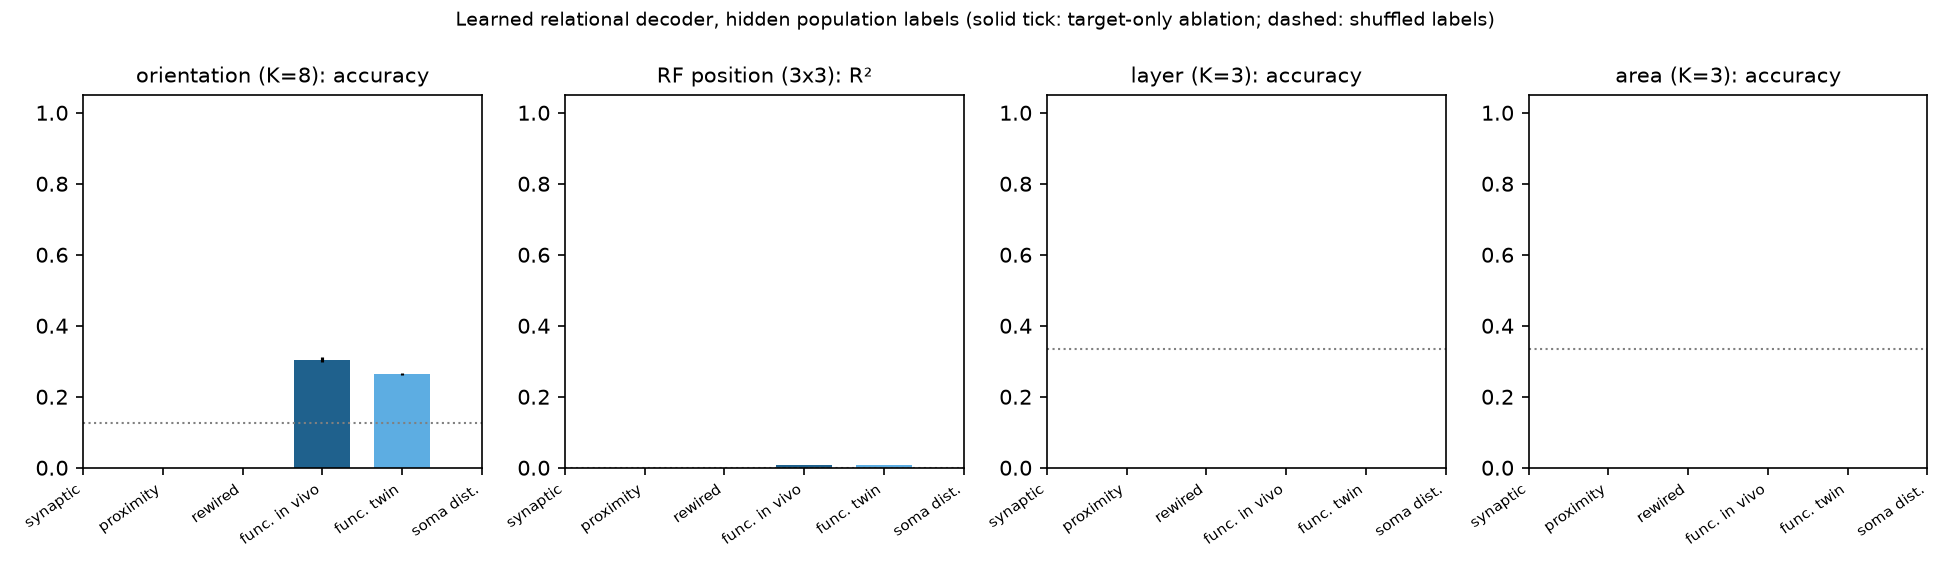
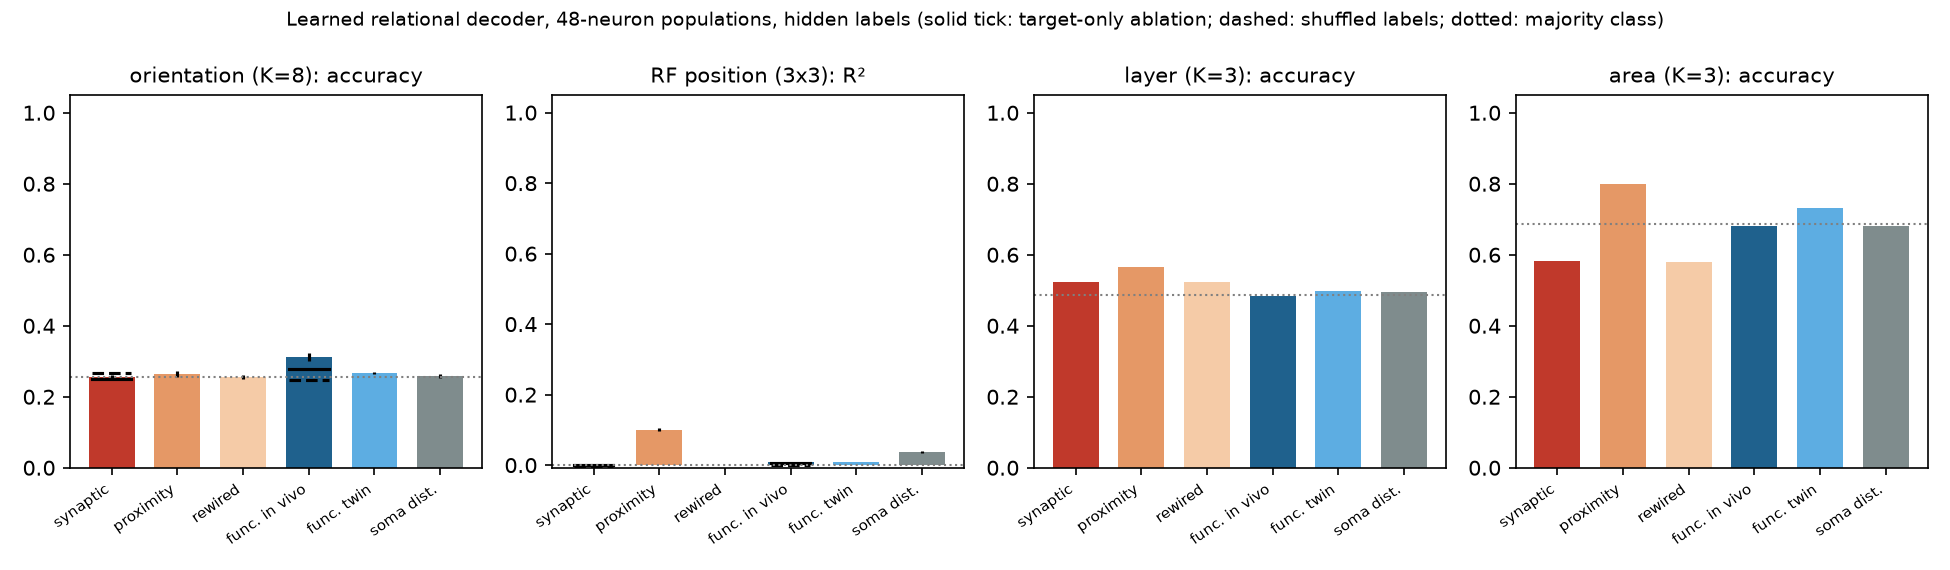
microns_ambiguity: decoder results, residual-RF control, final write-up
Learned decoder with hidden population labels stays at the class-prior
baseline at 48-128 neurons (honest negative); residual-RF control shows
synaptic relations carry RF content only at the map level while functional
relations identify local RF scatter perfectly. README completed.

Claude-Session: https://claude.ai/code/session_01LETEXXu2w15URiHQ6at3NF

diff --git a/microns_ambiguity/plots.py b/microns_ambiguity/plots.py
@@ -77,7 +77,8 @@ def fig_class_grams(geo, keys, fname):
 def fig_decoder(dec, fname):
     subs = ["struct_in", "struct_in_adp", "struct_in_rewired", "func_iv", "func_is", "soma"]
     fig, axes = plt.subplots(1, 4, figsize=(13, 3.8))
-    for ax, con, metric, chance in zip(axes, ["ori", "rf", "layer", "area"], ["acc", "r2", "acc", "acc"], [1 / 8, 0, 1 / 3, 1 / 3]):
+    # chance for accuracy = majority-class rate (classes are unbalanced)
+    for ax, con, metric, chance in zip(axes, ["ori", "rf", "layer", "area"], ["acc", "r2", "acc", "acc"], [0.255, 0, 0.487, 0.688]):
         for i, s in enumerate(subs):
             vals = [v[metric] for k, v in dec.items() if k.startswith(f"{s}|{con}|full|")]
             if not vals: continue
@@ -90,7 +91,7 @@ def fig_decoder(dec, fname):
         ax.set_xticks(range(len(subs))); ax.set_xticklabels([SUB_LABEL[s] for s in subs], fontsize=7, rotation=35, ha="right")
         ax.set_title(f"{CON_LABEL[con]}: {'accuracy' if metric == 'acc' else 'R²'}", fontsize=10)
         ax.set_ylim(min(0, ax.get_ylim()[0]), 1.05)
-    fig.suptitle("Learned relational decoder, hidden population labels (solid tick: target-only ablation; dashed: shuffled labels)", fontsize=9)
+    fig.suptitle("Learned relational decoder, 48-neuron populations, hidden labels (solid tick: target-only ablation; dashed: shuffled labels; dotted: majority class)", fontsize=9)
     fig.tight_layout(); fig.savefig(OUT / fname, dpi=150); plt.close(fig)
 
 

diff --git a/microns_ambiguity/README.md b/microns_ambiguity/README.md
@@ -232,7 +232,39 @@ relational structure, and it is broken by anisotropy, not by more relations.
 
 ### 4. Learned decoder with hidden population labels
 
-DECODER_PLACEHOLDER
+![decoder](outputs/decoder.png)
+
+| substrate | orientation acc (K=8) | RF R² | layer acc | area acc |
+|---|---|---|---|---|
+| synaptic | 0.26 | 0.00 | 0.52 | 0.58 |
+| proximity | 0.26 | **0.10** | 0.57 | **0.80** |
+| rewired | 0.26 | 0.00 | 0.52 | 0.58 |
+| functional, in vivo | **0.31** (0.33 at n=128; target-only 0.28) | 0.01 (0.01 at n=128) | 0.48 | 0.68 |
+| functional, digital twin | 0.26 (0.27 at n=128) | 0.01 | 0.50 | 0.73 |
+| soma distance | 0.26 | 0.04 | 0.50 | 0.68 |
+| majority class / shuffled labels | 0.25 / 0.25–0.27 | 0 / 0.00 | 0.49 | 0.69 |
+
+Mean over 2 seeds (orientation, RF) or 1 seed; 48-neuron populations, 24k
+training populations × 10 epochs; n=128 for the functional substrates
+(a 256-neuron sweep was killed by the OS for memory and is not reported).
+
+**This protocol fails in cortex.**  With population labels hidden and only 48
+(or 128) neurons per population, the decoder stays at the class-prior baseline
+for every substrate and content except a small orientation gain from in-vivo
+covariance (0.31–0.33 vs 0.25, of which the target-only ablation keeps 0.28)
+and a small RF gain from proximity relations (R² 0.10).  Class-level matching
+on the same Grams is perfect.  The difference is signal-to-noise: pairwise
+signal correlations are 0.03–0.06 even for neurons with overlapping RFs, so a
+48-neuron Gram is a noisy sample in which the target's row cannot be
+anchored to anyone else's unknown content, whereas the class-Gram pools
+10⁵–10⁶ pairs.  The paper's decoder had 784-neuron populations with strong,
+low-noise weight similarities.  Going to 128 neurons did not change the
+picture; whether 10³-neuron populations would is the obvious next test and
+needs more memory than this run had.  The honest reading: in cortex the
+content is in the relational structure, but recovering it *per neuron without
+any labelled anchor* needs far more relational context than the paper's
+networks did.
+
 
 ### 5. Reference-free recovery
 
@@ -288,7 +320,15 @@ out the content-bearing subspace.
    fixes content up to the automorphism group of the relational structure, and
    content is absolutely fixed only where the structure is asymmetric.
 
-4. **Reference-free recovery does not come for free.**  The dominant axes of
+4. **Per-neuron recovery without an anchor is the open problem.**  Both the
+   reference-free embedding and the hidden-label decoder are weak here: the
+   dominant axes of cortical relational structure are cortical space, pairwise
+   relations are noisy, and a small population cannot bootstrap its own frame.
+   The class-level result says the content *is* in the relations; the
+   per-neuron results say that extracting it intrinsically needs either a
+   labelled reference or a population large enough to embed itself.
+
+5. **Reference-free recovery does not come for free.**  The dominant axes of
    cortical relational structure are cortical space, not visual space or
    orientation.  Whatever fixes content intrinsically has to do so from a
    non-dominant subspace, which is a real constraint for any intrinsic
@@ -308,7 +348,8 @@ out the content-bearing subspace.
   create orientation- or RF-specific class structure.
 * The class-level protocol is the paper's; it hides class *identities* but
   keeps class *membership* (which neurons belong together).  Protocol 2 (the
-  learned decoder) removes that too and is correspondingly weaker.
+  learned decoder) removes that too and fails at 48–128 neurons; larger
+  populations were not feasible on this machine.
 * ARS from the permutation posterior assumes iid Gaussian entry noise on the
   class-Gram; τ is calibrated from the split-half distance of the correct
   labelling.  It agrees with the Fano bound where both are informative.
